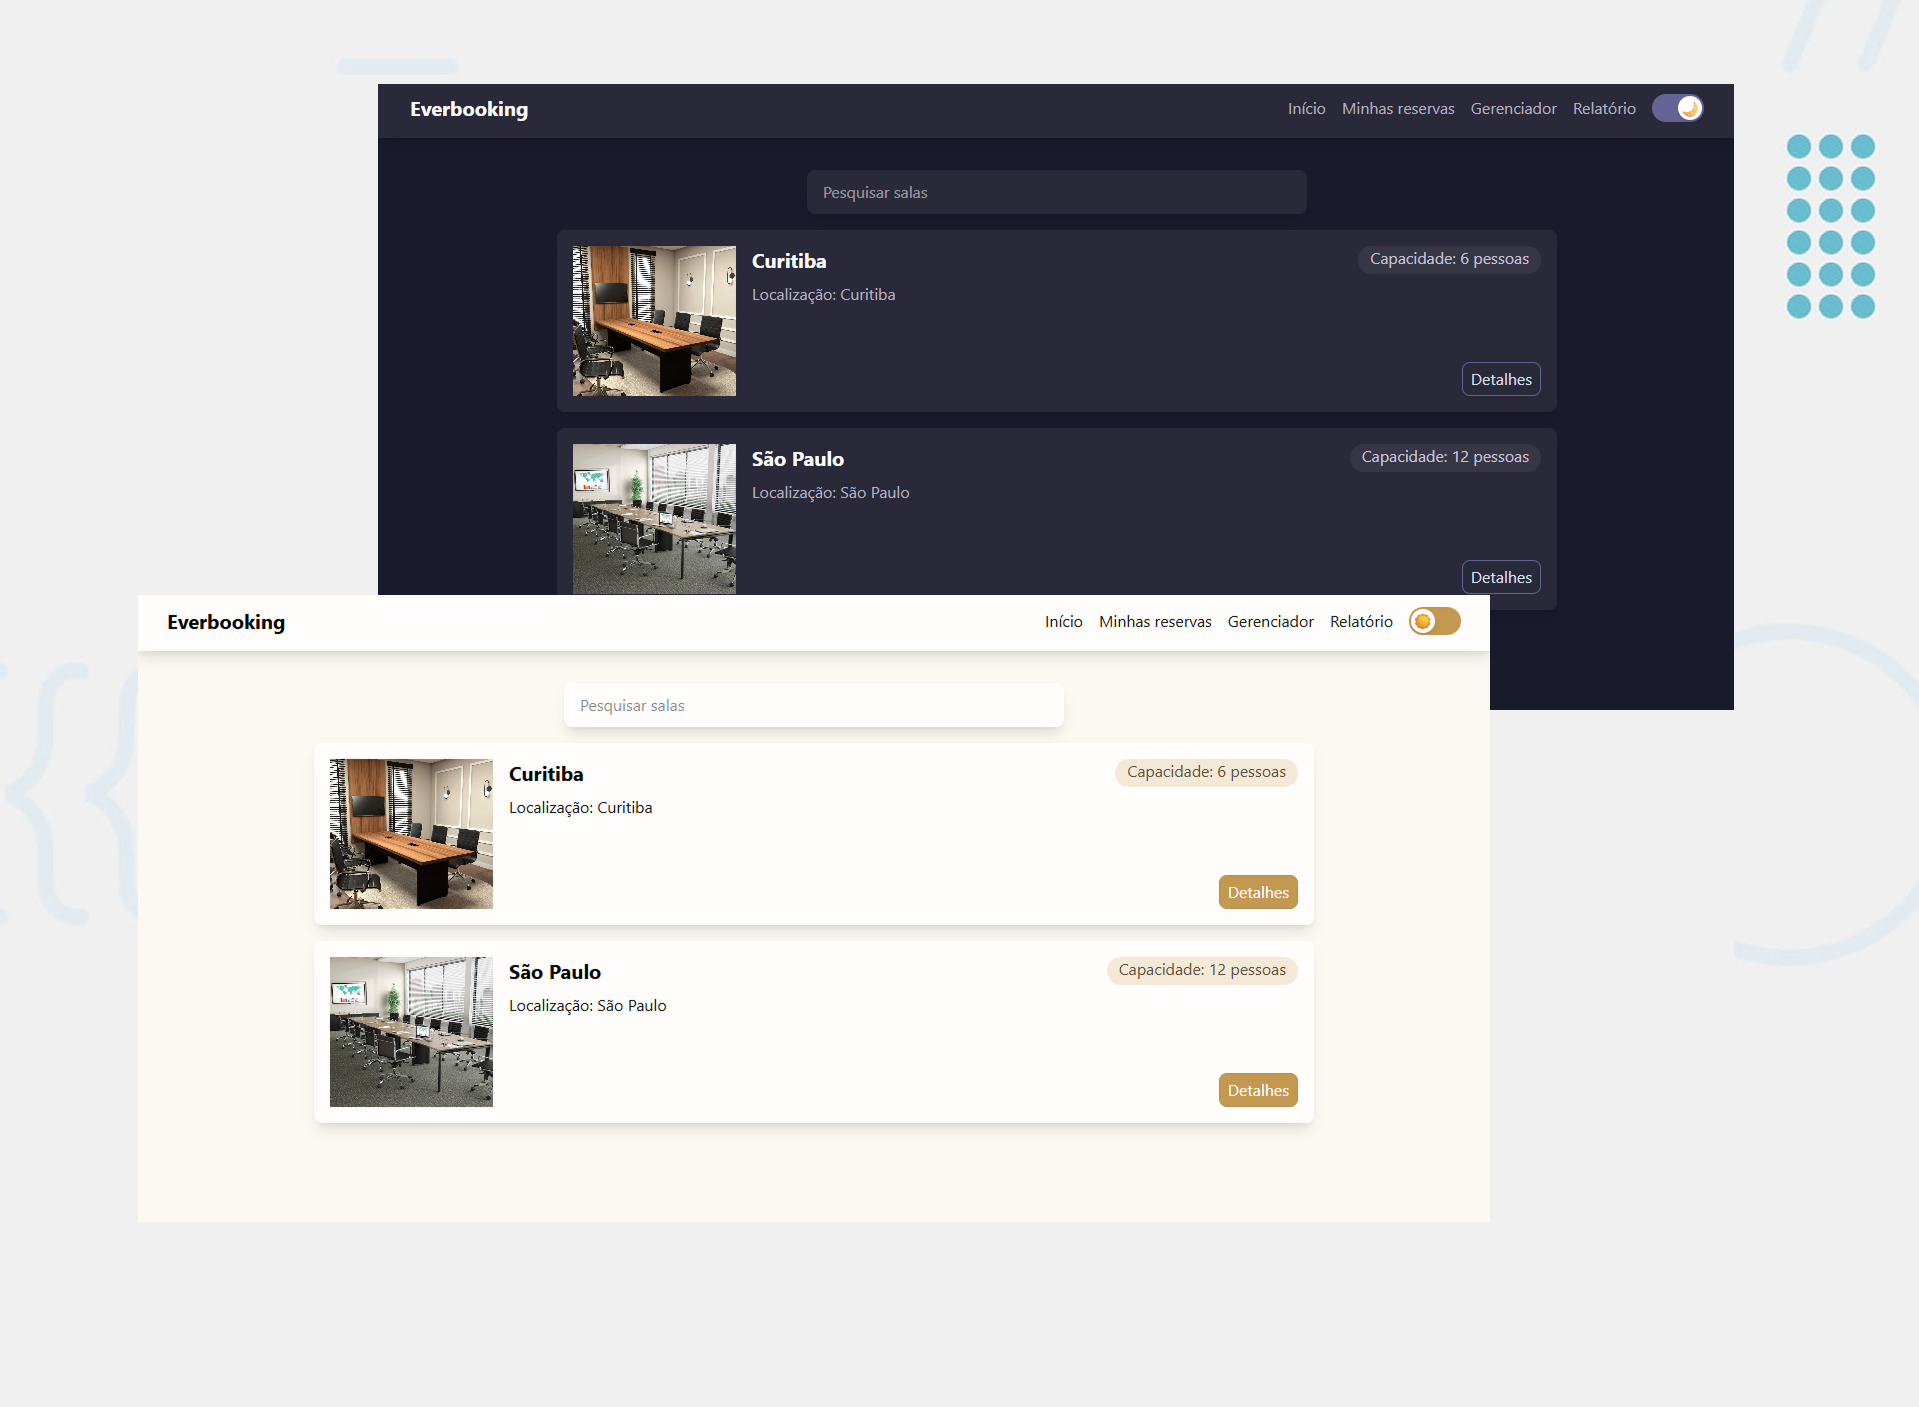
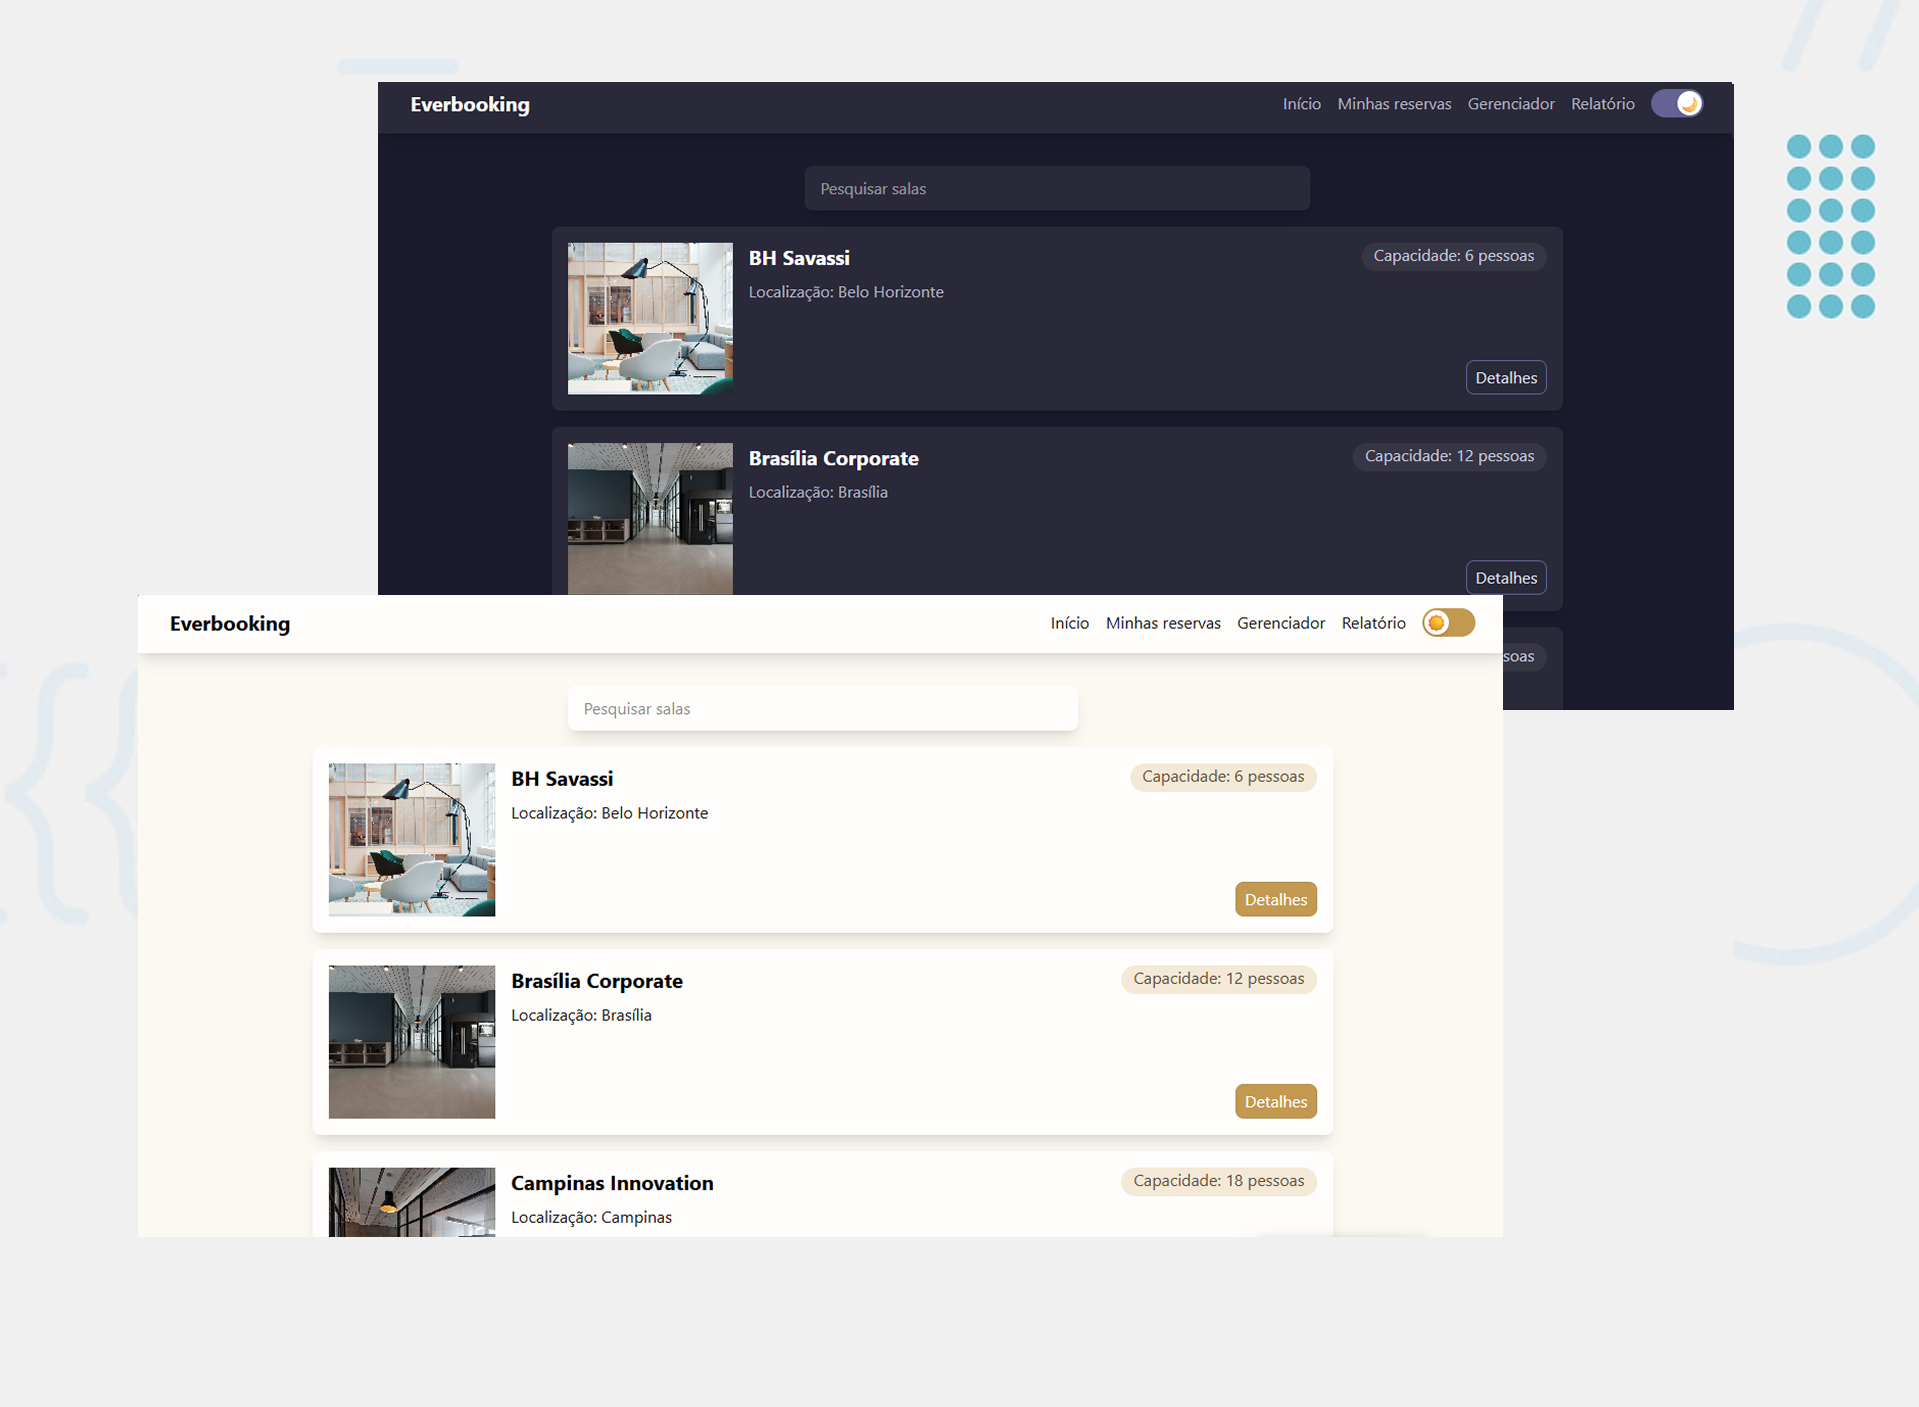
Adição de INSERTS no banco de dados e alteração na imagem preview.jpg

diff --git a/README.md b/README.md
@@ -57,8 +57,6 @@ git clone https://github.com/wholetomy/everbooking
 
 cd everbooking
 
-cp .env.example .env
-
 docker compose up --build -d
 
 ```
@@ -68,10 +66,16 @@ Para acessar o Everbooking, utilize os 2 links abaixo:
 Frontend: 
 http://localhost:3000
 
+Credenciais de administrador do frontend:
+
+- E-mail: admin@admin.com
+
+- Senha: admin
+
 Backend: 
 http://localhost:8000/docs
 
-Para parar:
+Para parar a aplicação, basta utilizar o comando abaixo:
 
 ```bash
 docker compose down
